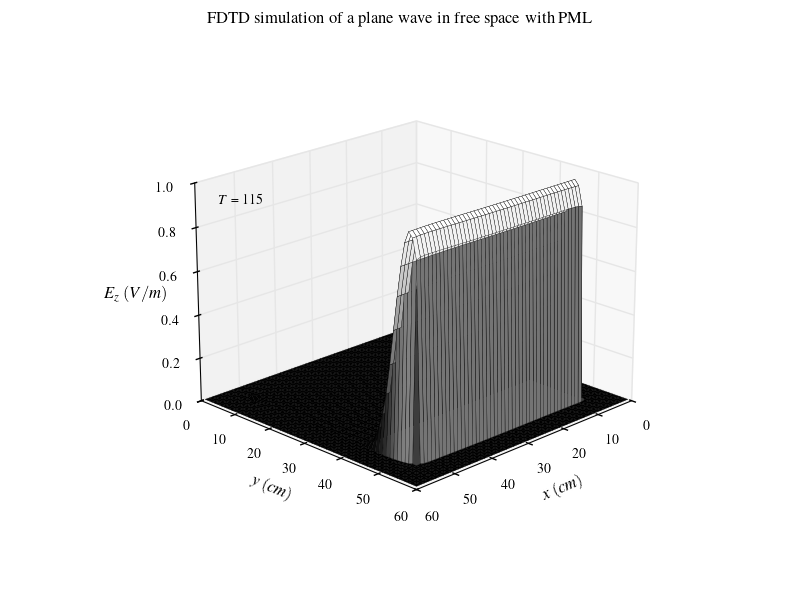
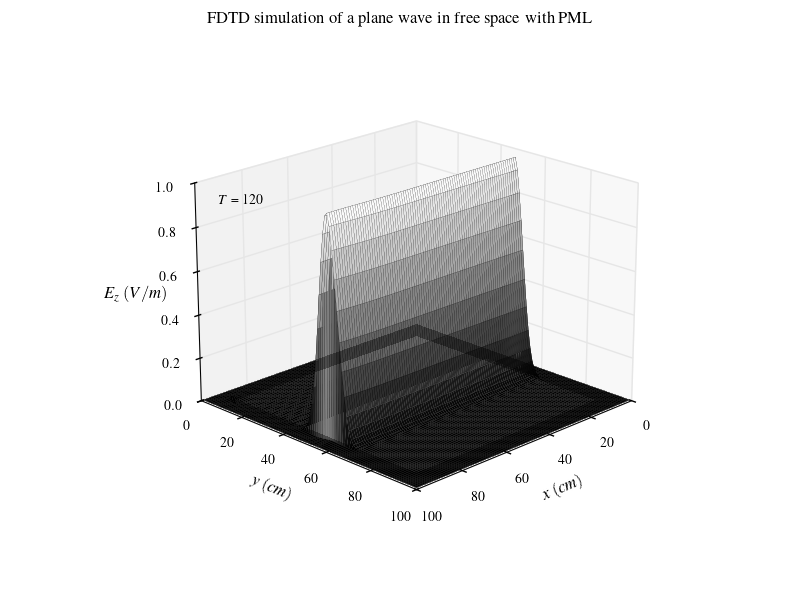
simulation of a plane wave in free space in the transverse magnetic mode with pml

diff --git a/fd2d/python/fd2d_3_3.py b/fd2d/python/fd2d_3_3.py
@@ -16,11 +16,13 @@ plt.style.use("classic")
 plt.style.use("../pyplot.mplstyle")
 
 
-def surfaceplot(ns: int, nx: int, ny: int, ez: np.ndarray) -> None:
+def surfaceplot(ns: int, nx: int, ny: int, npml: int, ez: np.ndarray) -> None:
     fig, ax = plt.subplots(subplot_kw={"projection":"3d"})
     fig.suptitle(r"FDTD simulation of a plane wave in free space with PML")
-    yv, xv = np.meshgrid(range(ny), range(nx))
-    ax.plot_surface(xv, yv, ez, rstride=1, cstride=1, cmap="gray", lw=0.25)
+    yv, xv = np.meshgrid(range(ny), range(nx)); levels = [0.50,1.50]
+    pmlmsk = ((xv < npml)|(xv >= nx-npml)|(yv < npml)|(yv >= ny-npml))
+    ax.plot_surface(xv, yv, ez, rstride=1, cstride=1, cmap="gray", lw=10/nx)
+    ax.contourf(xv, yv, pmlmsk, levels, offset=0, colors="k", alpha=0.40)
     ax.text2D(0.1, 0.7, rf"$T$ = {ns}", transform=ax.transAxes)
     ax.set(xlim=(0, nx), ylim=(0, ny), zlim=(0, 1))
     ax.set(xlabel=r"$x\;(cm)$", ylabel=r"$y\;(cm)$", zlabel=r"$E_z\;(V/m)$")
@@ -28,12 +30,14 @@ def surfaceplot(ns: int, nx: int, ny: int, ez: np.ndarray) -> None:
     plt.savefig("fd2d_surface_3_3.png", dpi=100)
 
 
-def contourplot(ns: int, nx: int, ny: int, ez: np.ndarray) -> None:
+def contourplot(ns: int, nx: int, ny: int, npml: int, ez: np.ndarray) -> None:
     fig, ax = plt.subplots(figsize=(4,4), gridspec_kw={"hspace":0.2})
     fig.suptitle(r"FDTD simulation of a plane wave in free space with PML")
-    yv, xv = np.meshgrid(range(ny), range(nx))
-    ax.contourf(xv, yv, ez, cmap="gray", alpha=0.75)
-    ax.contour(xv, yv, ez, colors="k", linewidths=0.25)
+    yv, xv = np.meshgrid(range(ny), range(nx)); ezmax = np.abs(ez).max()
+    levels = np.linspace(-ezmax, ezmax, int(2/0.04))
+    pmlmsk = ((xv < npml)|(xv >= nx-npml)|(yv < npml)|(yv >= ny-npml))
+    ax.contour(xv, yv, ez, levels, cmap="gray", alpha=1.0, linewidths=1.5)
+    ax.contourf(xv, yv, pmlmsk, levels=[0.50,1.50], colors="k", alpha=0.40)
     ax.set(xlim=(0, nx-1), ylim=(0, ny-1), aspect="equal")
     ax.set(xlabel=r"$x\;(cm)$", ylabel=r"$y\;(cm)$")
     plt.subplots_adjust(bottom=0.2, hspace=0.45)
@@ -41,16 +45,10 @@ def contourplot(ns: int, nx: int, ny: int, ez: np.ndarray) -> None:
 
 
 pmlayer = namedtuple('pmlayer', (
-    'fx1',
-    'fx2',
-    'fx3',
-    'fy1',
-    'fy2',
-    'fy3',
-    'gx2',
-    'gx3',
-    'gy2',
-    'gy3',
+    'fx1', 'fx2', 'fx3',
+    'fy1', 'fy2', 'fy3',
+    'gx2', 'gx3',
+    'gy2', 'gy3',
 ))
 
 
@@ -143,10 +141,10 @@ def pmlparam(nx: int, ny: int, npml: int, pml: pmlayer) -> None:
 
 def main():
 
-    nx: int = 60  # number of grid points
-    ny: int = 60  # number of grid points
+    nx: int = 100  # number of grid points
+    ny: int = 100  # number of grid points
 
-    ns: int = 115  # number of time steps
+    ns: int = 120  # number of time steps
 
     ezi = np.zeros(ny, dtype=np.float64)
     hxi = np.zeros(ny, dtype=np.float64)
@@ -192,8 +190,8 @@ def main():
         incthx(nx, ny, npml, ezi, hx)
         incthy(nx, ny, npml, ezi, hy)
 
-    surfaceplot(ns, nx, ny, ez)
-    contourplot(ns, nx, ny, ez)
+    surfaceplot(ns, nx, ny, npml, ez)
+    contourplot(ns, nx, ny, npml, ez)
 
 
 if __name__ == "__main__":
